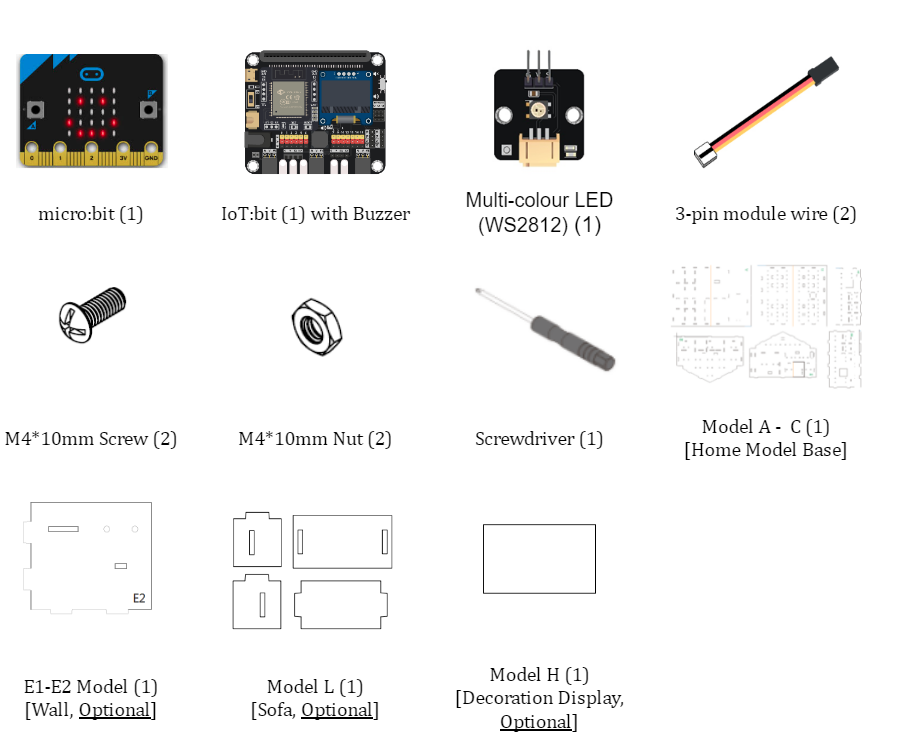
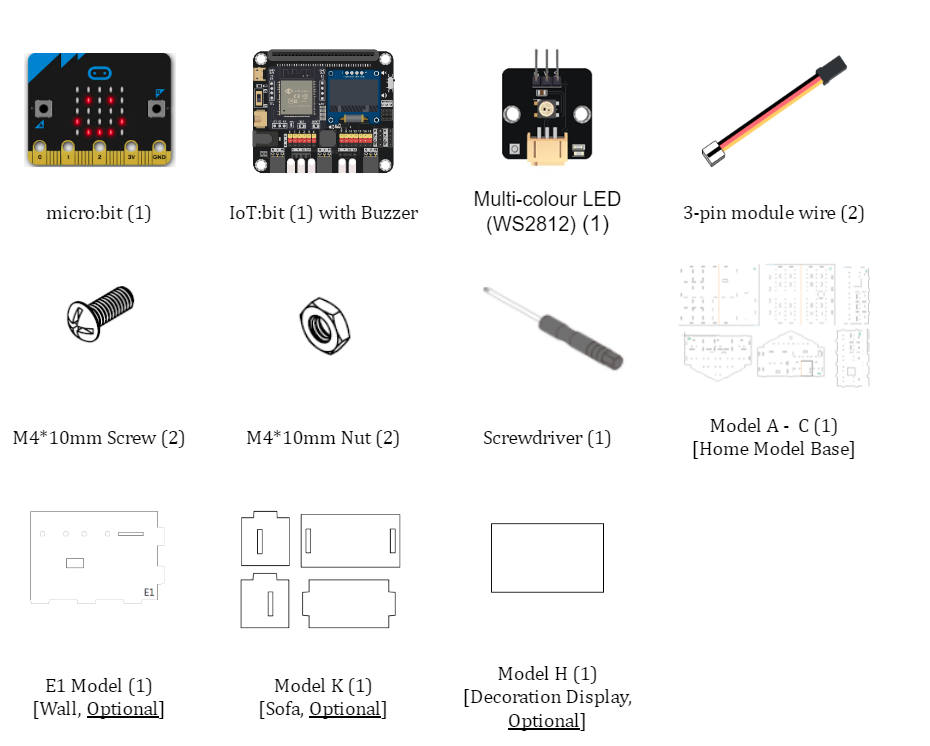
update

diff --git a/docs/smartHomeIoT/case04.md b/docs/smartHomeIoT/case04.md
@@ -14,17 +14,24 @@ Make a toilet water leakage detection system by checking the conductivity of dev
 <span id="subtitle">What is a toilet water leakage detection system?</span><P>
 Toilet water leakage detection system is a system that can trigger alert upon unwanted water leakage situations.<BR><P>
 
+<span id="subtitle">What is “On Pin Pressed”?</span><P>
+"On Pin Pressed” means the Pin connected to the ground, it will get the analog reading “0” and return “True". When it is not connected to ground, the reading will be not “0” and return “False”.
+
+
 <span id="subtitle">What is an Electrical circuit?</span><P>
 Electrical Circuit is one of basic concepts in electronic engineering, when something can let electric current pass through, it builds up a circuit.<P>
-Generally, a circuit will have two states, if the circuit is complete, able to let the current pass, it is called closed circuit. If the circuit has a breakpoint, and cannot let the current pass, it becomes an open circuit.<p>
-However, how to let the current pass through? It is related to the material of the circuit. All the materials have their own physical property, one of property is conductivity. If the conductivity is high enough, it is called a conductor and able to let the current pass through easier, in opposite, if the conductivity is low, it is called an insulator which will stop the current pass through.<P>
-In daily life, metal usually has a high conductivity, so the electric wires are made of copper. In addition, some ionic material such as tap water also takes the same property, able to become a conductor to build a circuit.
-<BR><P>
+Generally, a circuit will have two states, if the circuit is complete, able to let the current pass, it is called closed circuit. If the circuit has a breakpoint, and cannot let the current pass, it becomes an open circuit.<P>
+However, how to let the current pass through? It is related to the material of the circuit. In daily life, metal usually has a high conductivity, so it can be used to build the circuit. In addition, some ionic material such as tap water also takes the same property, able to become a conductor to build a circuit. But air has very bad conductivity, so it is hard to let current pass through.<BR><P>
+
+
+![auto_fit](images/Case4/Case4_bg1.png)
+
 
 <span id="subtitle">Toilet water leakage detection system principle</span><P>
 
-The system will consist of two crocodile clips each with one side connected to the board, one installed to the place of detection, with two clips physically disconnected. Air is an excellent insulator, so the circuit will become open circuit.  When water is leaked around that area, the water will replace the air between two clips, thus becoming a closed circuit, electricity will flow between the Board's detection Pin and ground Pin. It will trigger the detection to make the water leakage be detected and the system will send an alert.
-<BR><P>
+The system will consist of two crocodile clips each with one side connected to the board, one installed to the place of detection, with two clips physically disconnected. Air is an excellent insulator, so the circuit will become open circuit.  When water is leaked around that area, the water will replace the air between two clips, thus becoming a closed circuit, electricity will flow between the Board's detection Pin and ground Pin. It will trigger the detection to make the water leakage be detected and the system will send an alert.<BR><P>
+
+![auto_fit](images/Case4/Case4_bg2.png)
 
 
 

diff --git a/docs/smartHomeIoT/case03.md b/docs/smartHomeIoT/case03.md
@@ -54,11 +54,9 @@ Place at the room corner<BR><P>
 ## Hardware connect
 <HR>
 
-1. Connect the Temperature and Humidity sensor (DHT11) to P0
+1. Connect the Temperature and Humidity sensor (DHT11) to P2
 2. Connect the extended OLED display to I2C Port 
 3. Connect the Motor module to P1
-4. Pull up the Buzzer switch to disconnect the Buzzer
-
 ![pic](images/Case3/Case3_hardware.png)<P>
 
 ## Programming (MakeCode)
@@ -73,7 +71,7 @@ Place at the room corner<BR><P>
 ![pic_70](images/Case3/Case3_p2.png)<P>
 
 <span id="subtitle">Step 3. Read and show the reading from DHT11</span><P>
-* In `Forever`, read the data by `Read Temperature & Humidity Sensor at pin P0`
+* In `Forever`, read the data by `Read Temperature & Humidity Sensor at pin P2`
 * Get the temperature value from data, and save it to variable by `(set temperature to Get Temperature °C`)
 * Before update the screen infomation, suggest clear up the OLED display each time
 * Use `clear OLED display` to clear the display
@@ -91,9 +89,9 @@ Place at the room corner<BR><P>
 ![pic_90](images/Case3/Case3_p4.png)<P>
 
 <span id="subtitle">Full Solution<BR><P>
-MakeCode: [https://makecode.microbit.org/_4RzYwX1gT4k3](https://makecode.microbit.org/_4RzYwX1gT4k3)<BR><P>
+MakeCode: [https://makecode.microbit.org/_c2637VXcbfHP](https://makecode.microbit.org/_c2637VXcbfHP)<BR><P>
 You could also download the program from the following website:<BR>
-<iframe src="https://makecode.microbit.org/#pub:_4RzYwX1gT4k3" width="100%" height="500" frameborder="0"></iframe>
+<iframe src="https://makecode.microbit.org/#pub:_c2637VXcbfHP" width="100%" height="500" frameborder="0"></iframe>
 
 
 ## Result

diff --git a/docs/smartHomeIoT/case07.md b/docs/smartHomeIoT/case07.md
@@ -36,18 +36,31 @@ Micro:bit includes the radio function, allowing two or more Micro:bit to form a 
 <HR>
 
 <span id="subtitle">Step 1</span><P>
-Use M4 screws to install the Multi-Color LED to B3 cardboard<BR><P>
+Use M4 screws and nuts to install the Multi-Color LED to B3 cardboard<BR><P>
 ![auto_fit](images/Case7/Case7_ass1.png)<P>
 
 <H3>Optional</H3>
 
 <span id="subtitle">Step 2</span><P>
-Build a sofa model with ?? cardboards<BR><P>
+Build a sofa model with K1,K2,K3 cardboards<BR><P>
+
 ![auto_fit](images/Case7/Case7_ass2.png)<P>
 
 <span id="subtitle">Step 3</span><P>
 Place the sofa at the room<BR><P>
+
 ![auto_fit](images/Case7/Case7_ass3.png)<P>
+
+<span id="subtitle">Step 4</span><P>
+Insert the E1 cardboard on A, align with A and B3 holes<BR><P>
+
+![auto_fit](images/Case7/Case7_ass4.png)<P>
+
+<span id="subtitle">Step 5</span><P>
+Stick the Decoration Display Model (H cardboard) on B3<BR><P>
+
+![auto_fit](images/Case7/Case7_ass5.png)<P>
+
 
 ## Hardware connect
 <HR>

diff --git a/docs/smartHomeIoT/case08.md b/docs/smartHomeIoT/case08.md
@@ -54,9 +54,8 @@ Install the light sensor on the C1 cardboard<BR><P>
 ## Hardware connect
 <HR>
 
-1. Connect the light sensor to P0
+1. Connect the light sensor to P1
 2. Connect the 360 degree servo to P2
-3. Pull up the buzzer switch to disconnect the buzzer
 ![auto_fit](images/Case8/Case8_hardware.png)<P>
 
 ## Programming (MakeCode)
@@ -87,7 +86,7 @@ Install the light sensor on the C1 cardboard<BR><P>
 ![auto_fit](images/Case8/Case8_p3.png)<P>
 
 <span id="subtitle">Step 4. Get the light intensity value</span><P>
-* In `Forever`, reading the value by `set light to Get light value (percentage) at Pin P0`
+* In `Forever`, reading the value by `set light to Get light value (percentage) at Pin P1`
 * Clear the OLED display before each update by `clear OLED display`
 * Show the number of value on display by `show number light`
 

diff --git a/docs/smartHomeIoT/case11.md b/docs/smartHomeIoT/case11.md
@@ -165,7 +165,7 @@ You could also download the program from the following website:<BR>
 
 When the flame source is detected by the flame sensor, it will trigger to blink the LED, making alert sound, and send the warning notification to IFTTT
 <BR><P>
-![auto_fit](images/Case11/Case11_result1.png)<P>
+![auto_fit](images/Case11/Case11_result.gif)<P>
 ![auto_fit](images/Case11/Case11_result2.png)<P>
 
 ## Think

diff --git a/docs/smartHomeIoT/case12.md b/docs/smartHomeIoT/case12.md
@@ -1,4 +1,4 @@
-# IoT Case 12: Room Smart Colourful Light Control
+# IoT Case 12: Room Smart Colourful Light App Control
 
 Level: ![level](images/level4.png)
 ![auto_fit](images/Case12/intro.png)<P>
